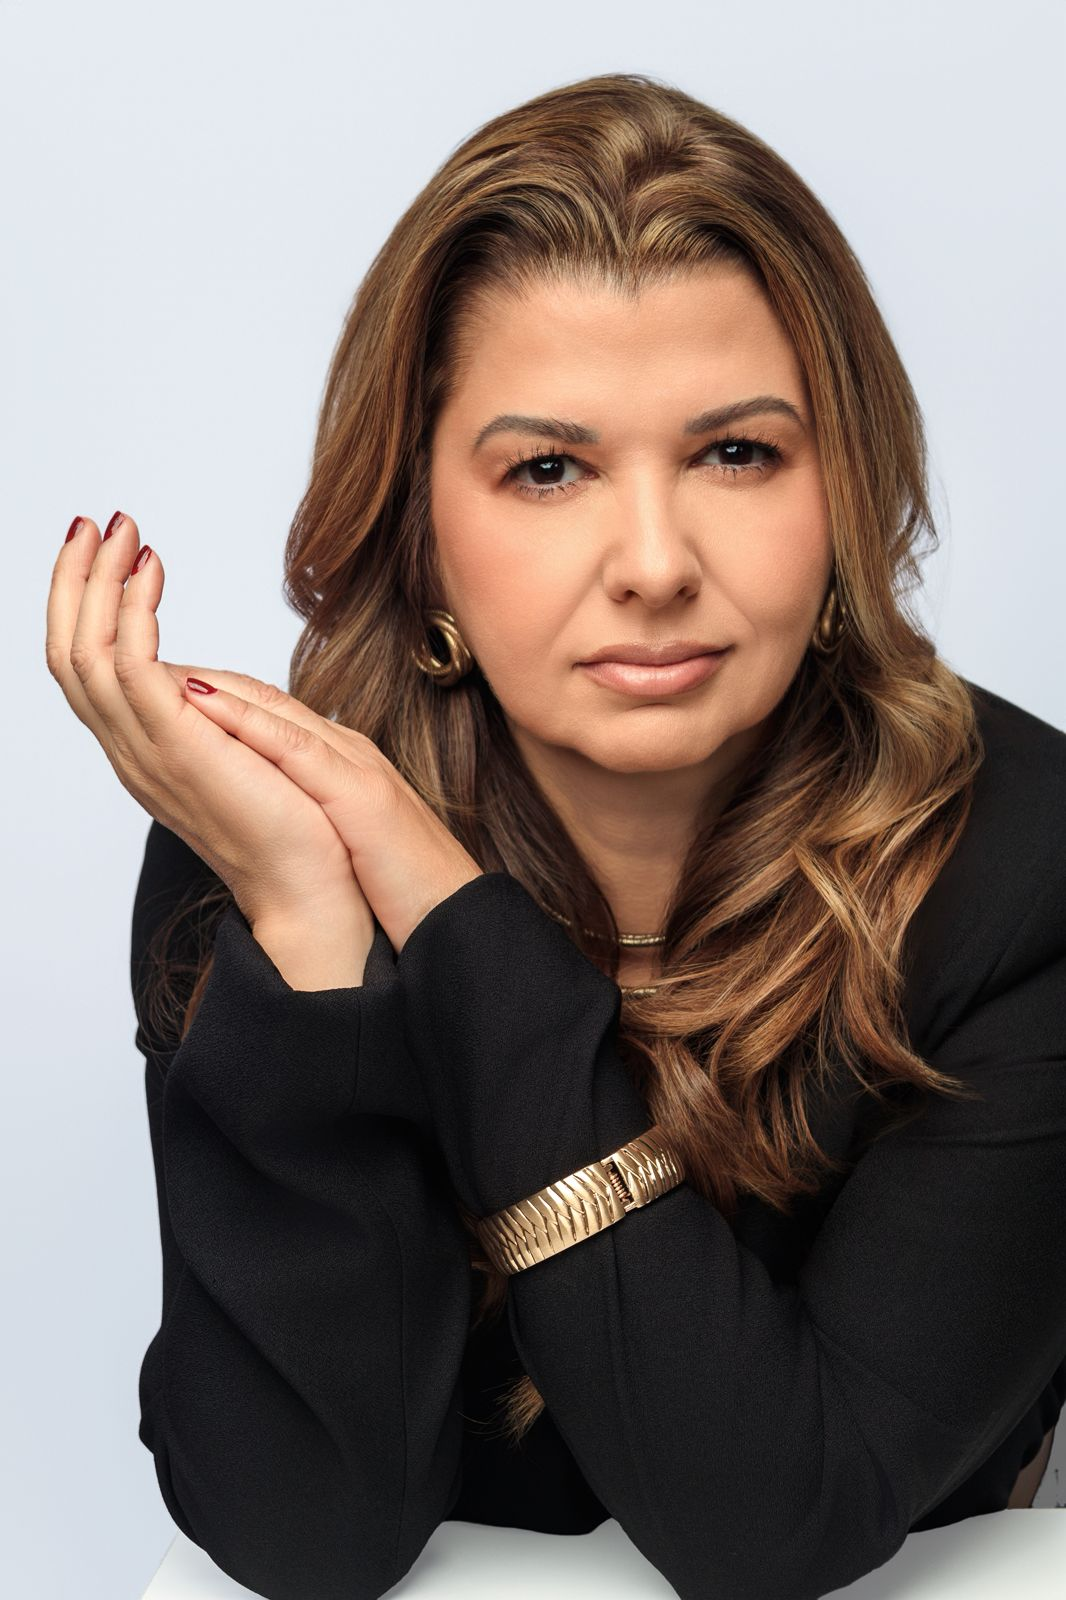
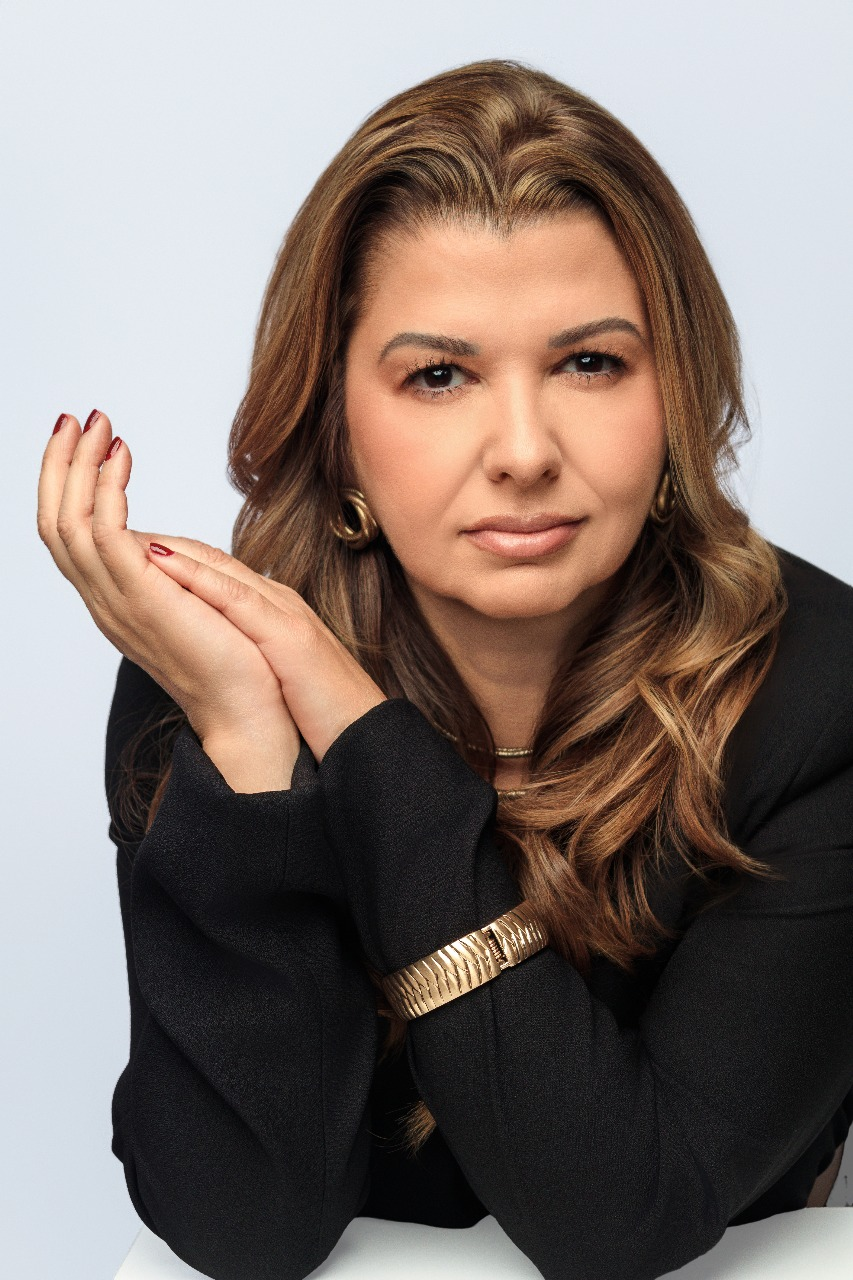
Changes

diff --git a/src/components/CEO.tsx b/src/components/CEO.tsx
@@ -19,7 +19,7 @@ const CEO = () => {
                 <img 
                   src={ericaPhoto}
                   alt="Érica Mélo" 
-                  className="w-48 h-48 rounded-full object-contain bg-white border-4 border-white shadow-2xl mb-6"
+                  className="w-48 h-48 rounded-full object-cover border-4 border-white shadow-2xl mb-6"
                 />
                 <h3 className="text-3xl font-bold text-white mb-2">Érica Mélo</h3>
                 <p className="text-white/95 text-lg mb-10">{t('ceo.position')}</p>
